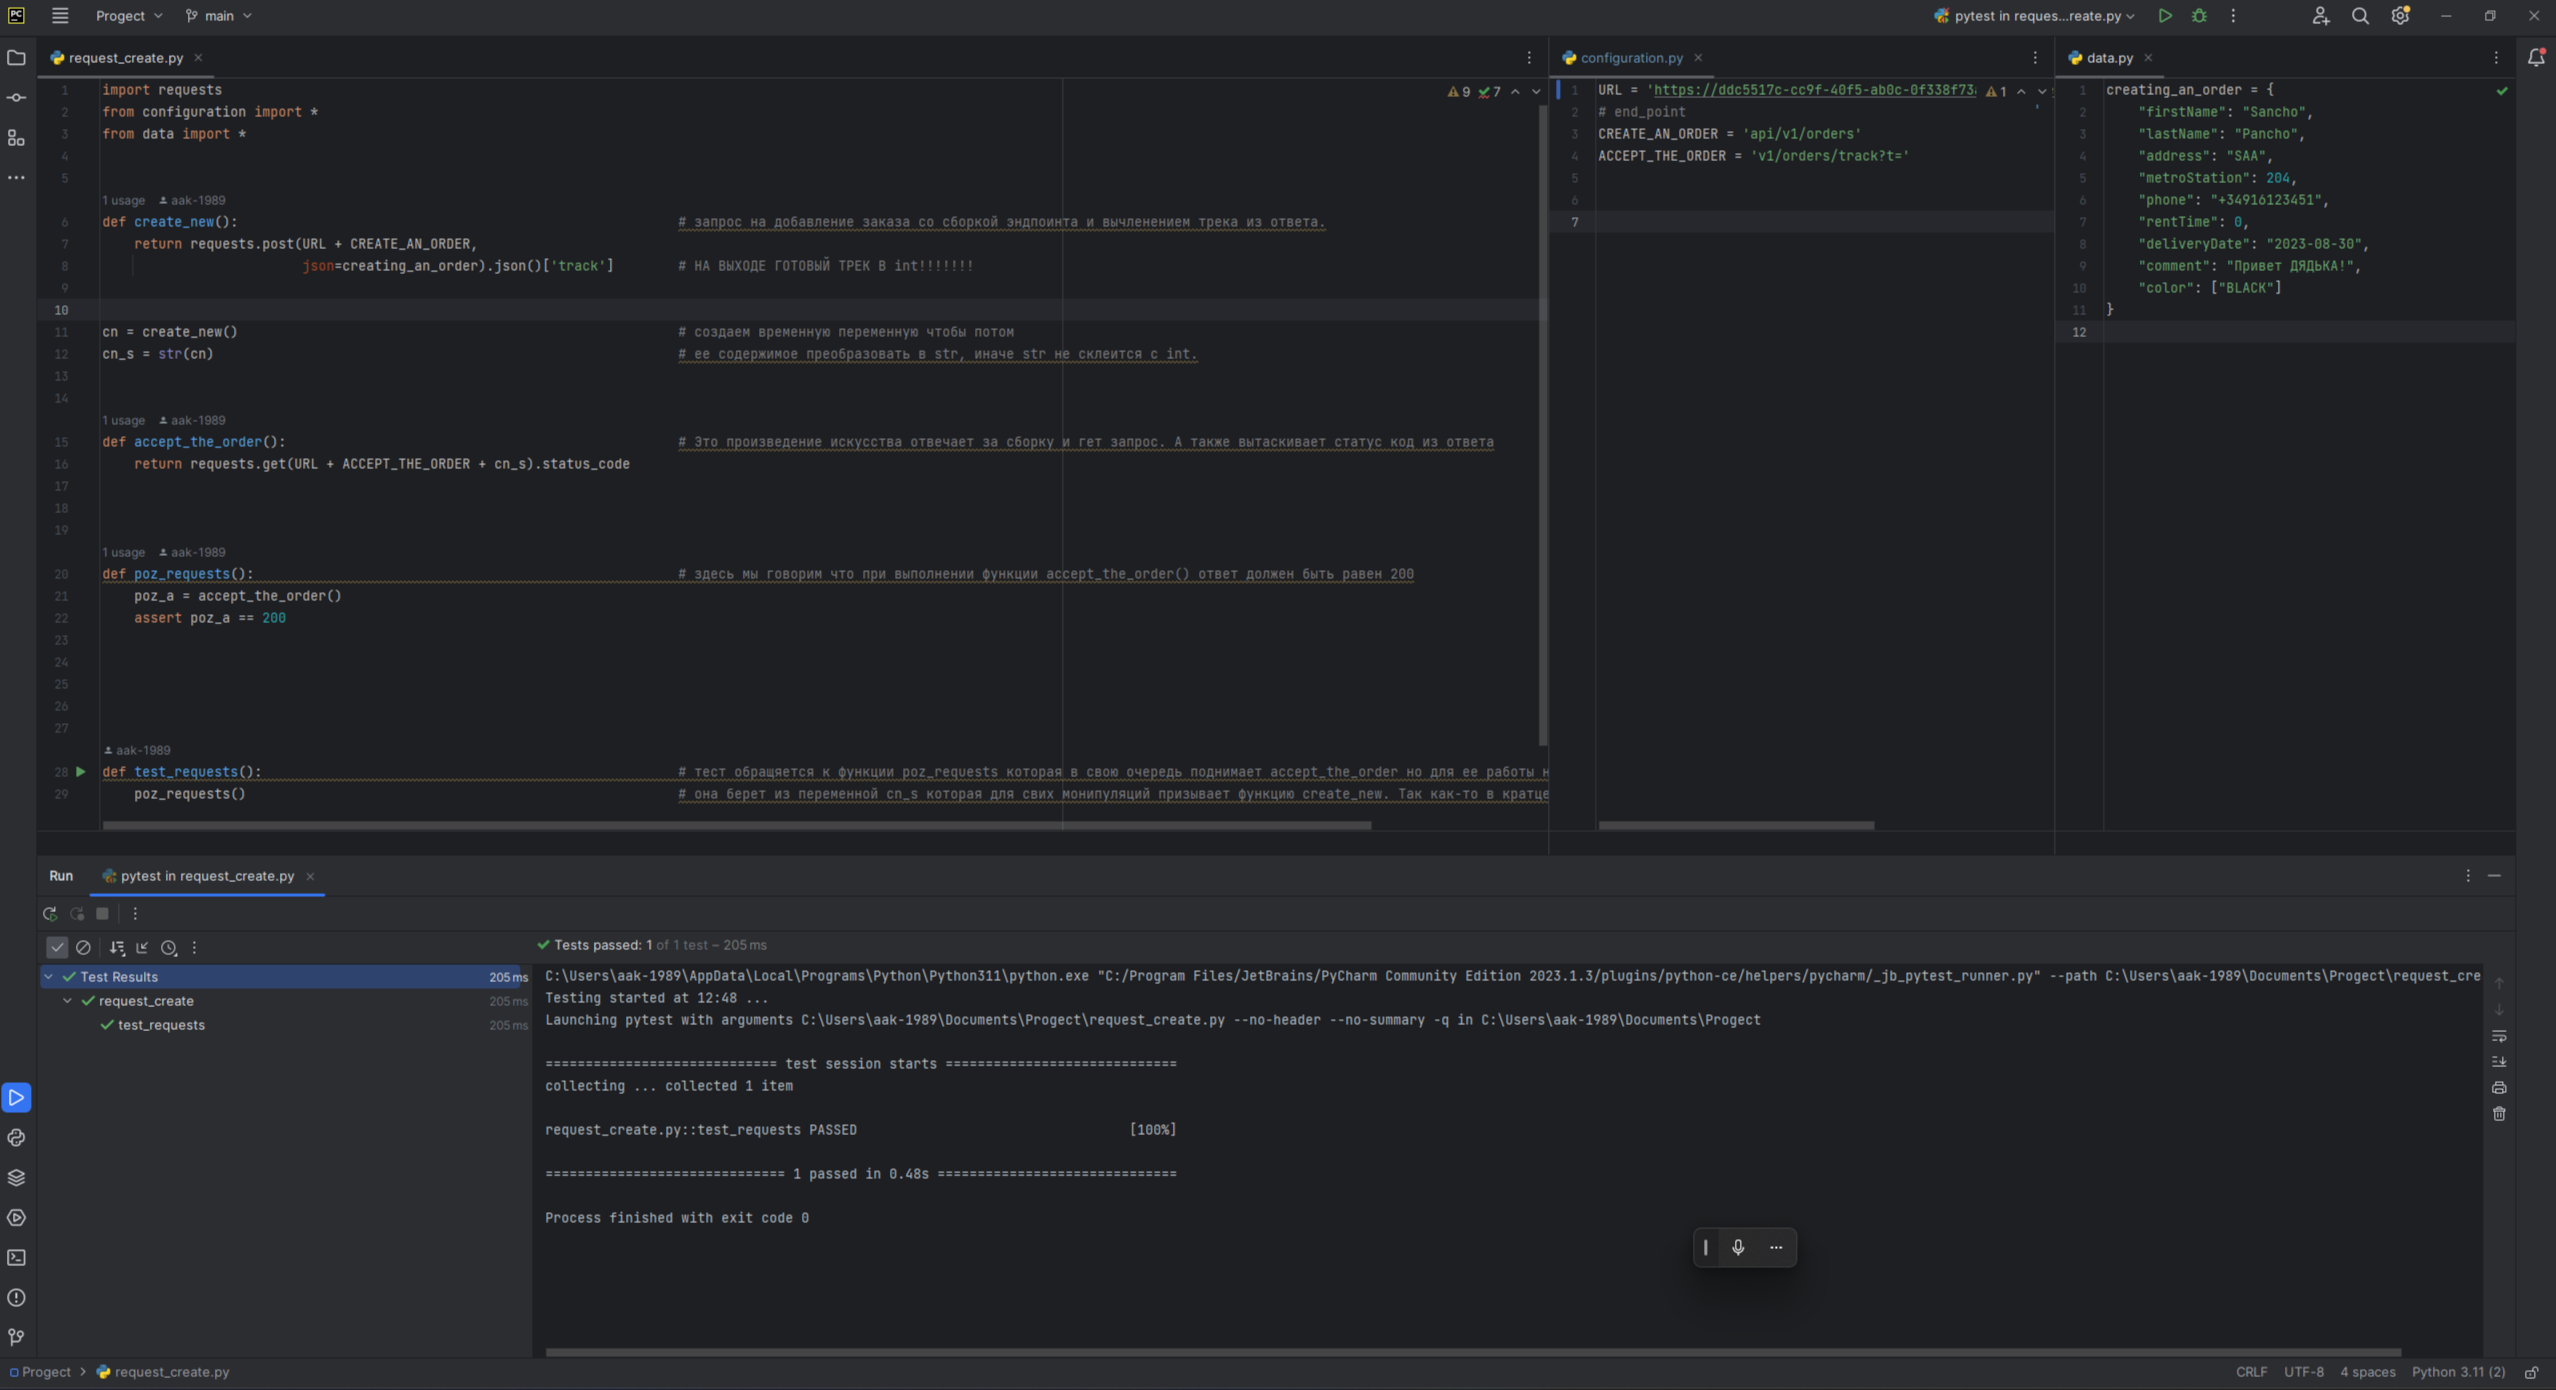
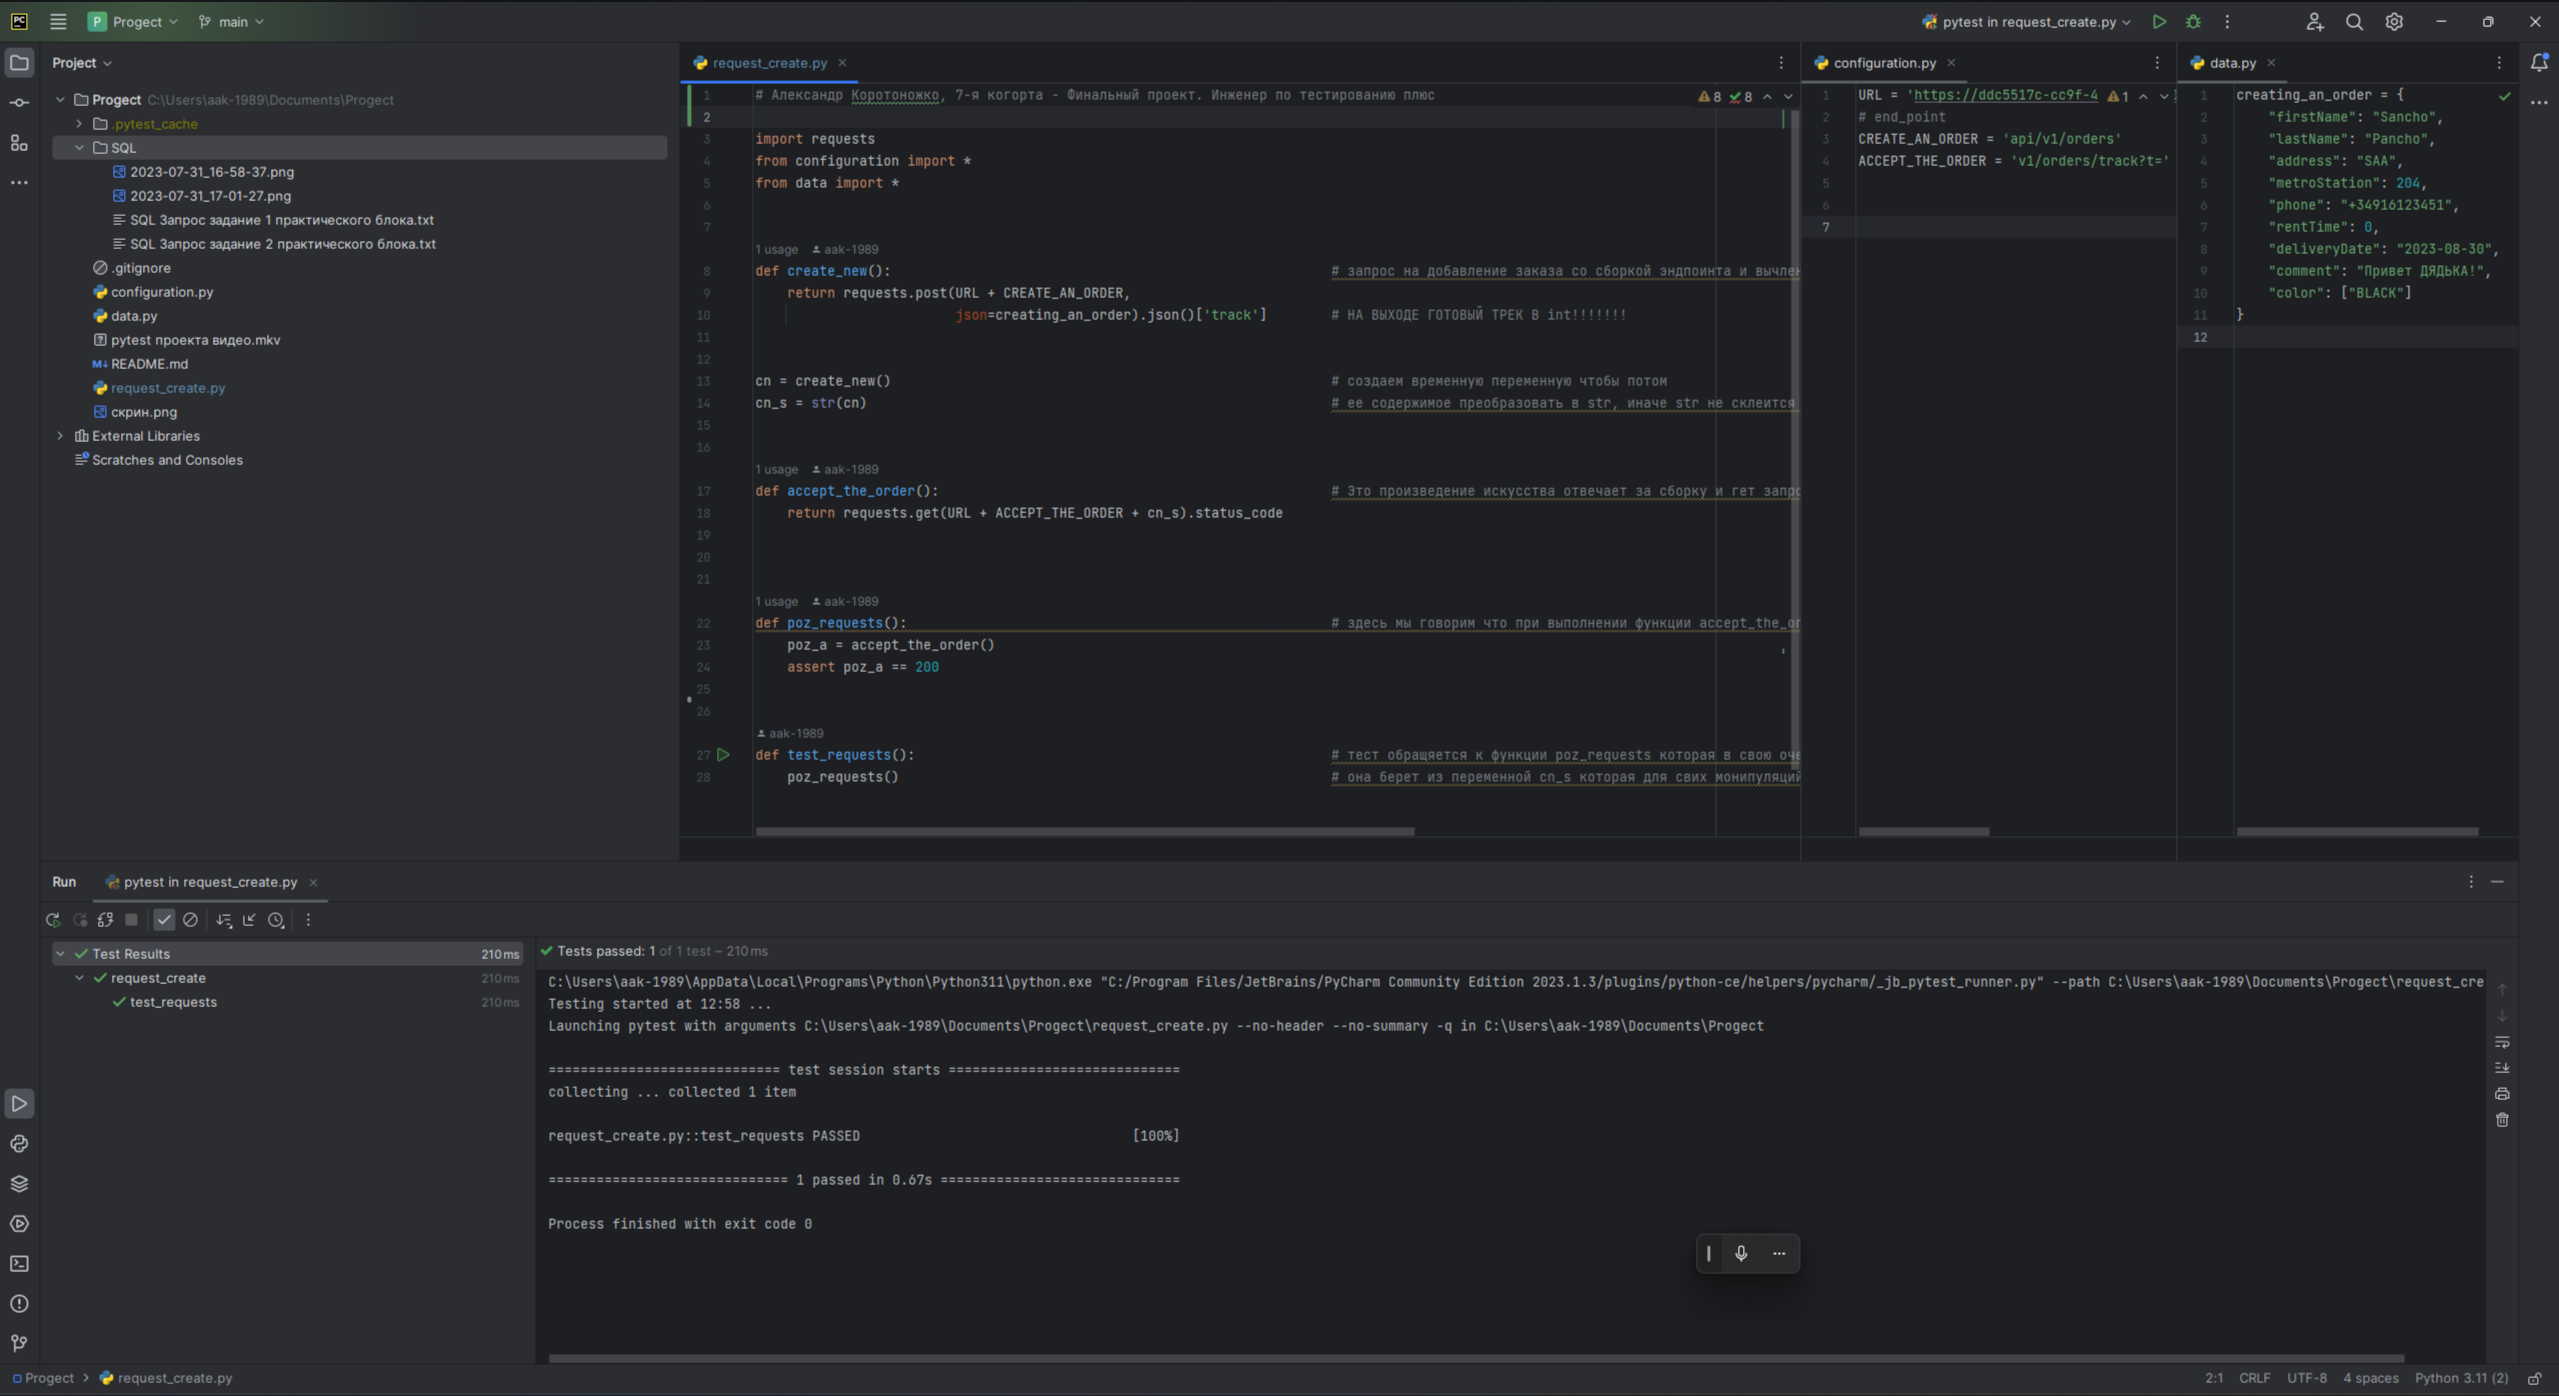
Новые изменения. Нужно было оказывается подписаться в коде.

diff --git a/request_create.py b/request_create.py
@@ -1,3 +1,5 @@
+# Александр Коротоножко, 7-я когорта - Финальный проект. Инженер по тестированию плюс
+
 import requests
 from configuration import *
 from data import *
@@ -20,9 +22,6 @@ def accept_the_order():                                                 # Это
 def poz_requests():                                                     # здесь мы говорим что при выполнении функции accept_the_order() ответ должен быть равен 200
     poz_a = accept_the_order()
     assert poz_a == 200
-
-
-
 
 
 def test_requests():                                                    # тест обращяется к функции poz_requests которая в свою очередь поднимает accept_the_order но для ее работы нужен трек который
